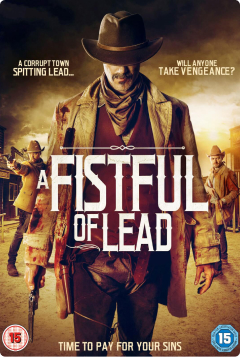
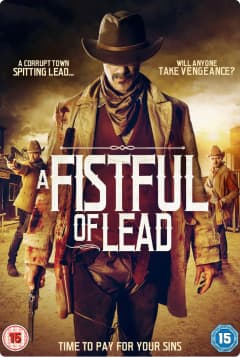
Added adaptive picture

diff --git a/src/sass/_film-modal.scss b/src/sass/_film-modal.scss
@@ -1,11 +1,11 @@
 // Стили для film-modal partial
 
 .card {
+  border: 1px solid #000;
   width: 100%;
   margin: 0 auto;
   position: relative;
   padding: 48px 20px 40px 20px;
-  border: 2px solid red;
 
   @media screen and (min-width: 320px) {
     width: 280px;
@@ -22,26 +22,16 @@
   }
 }
 
-.card__wrapper1 {
-  background-color: cyan;
+.card__image {
+  max-width: 100%;
   margin-bottom: 30px;
+
   @media screen and (min-width: 768px) {
-    margin-bottom: 0;
     margin-right: 30px;
   }
 }
 
-.card__image {
-  max-width: 100%;
-  @media screen and (min-width: 768px) {
-    min-width: 264px;
-  }
-  @media screen and (min-width: 1024px) {
-    min-width: 396px;
-  }
-}
-
-.card__wrapper2 {
+.card__wrapper {
   @media screen and (min-width: 768px) {
     width: 264px;
   }
@@ -49,8 +39,8 @@
     width: 396px;
   }
 }
+
 .card__description {
-  background-color: darkkhaki;
   padding-top: 20px;
   padding-bottom: 20px;
   padding-right: 25px;
@@ -60,6 +50,7 @@
     justify-content: left;
   }
 }
+
 .card__description--1 {
   @media screen and (min-width: 768px) {
     margin-right: 40px;
@@ -68,6 +59,7 @@
     margin-right: 85px;
   }
 }
+
 .card__title {
   font-weight: 500;
   font-size: 20px;
@@ -78,6 +70,7 @@
     line-height: 35px;
   }
 }
+
 .card__label {
   font-weight: 500;
   font-size: 12px;
@@ -85,41 +78,27 @@
   color: #8c8c8c;
   margin-bottom: 10px;
 }
+
 .card__rating {
   margin-bottom: 10px;
   font-weight: 500;
   font-size: 12px;
   line-height: 16px;
 }
+
 .card__rating--orange {
   background-color: #ff6b01;
   color: #fff;
-
   padding: 1px 8px;
   border-radius: 5px;
 }
+
 .card__rating--white {
   background-color: #f7f7f7;
   padding: 1px 4px;
   border-radius: 5px;
 }
-/* .card__rating--num {
-  font-weight: 500;
-  font-size: 12px;
-  line-height: 14px;
-}
-.card__rating--text {
-  font-weight: 500;
-  font-size: 12px;
-  line-height: 16px;
-} */
-/* .card__label--text {
-  color: #000;
-} */
 
-.card__about {
-  background-color: darksalmon;
-}
 .card__subtitle {
   font-weight: 500;
   font-size: 12px;
@@ -127,12 +106,14 @@
   text-transform: uppercase;
   margin-bottom: 10px;
 }
+
 .card__text {
   font-weight: 500;
   font-size: 12px;
   line-height: 1.67;
   padding-bottom: 20px;
 }
+
 .card__buttons {
   padding-top: 20px;
   display: flex;
@@ -142,6 +123,7 @@
     justify-content: left;
   }
 }
+
 .card__btn {
   width: 112px;
   height: 44px;
@@ -171,28 +153,7 @@
     border: hidden;
   }
 }
-/* .card__btn--orange {
-  background-color: #ff6b01;
-  color: #ffffff;
-  border: hidden;
-}
-.card__btn--orange:hover {
-  background-color: rgba(0, 0, 0, 0);
-  color: inherit;
-  border: 1px solid #000000;
-}
-.card__btn--white {
-  background-color: rgba(0, 0, 0, 0);
-}
-.card__btn--white:hover {
-  background-color: #ff6b01;
-  color: #ffffff;
-  border: hidden;
-} */
 
-// .container-modal {
-//   position: relative;
-// }
 .close-button {
   position: absolute;
   top: 8px;
@@ -208,6 +169,7 @@
     stroke: #ff6b01;
   }
 }
+
 .close-cross {
   stroke: black;
 }

diff --git a/src/partials/film-modal.html b/src/partials/film-modal.html
@@ -12,10 +12,23 @@
       <path d="M8 22L22 8" stroke-width="2" />
     </svg>
   </button>
-  <div class="card__wrapper1">
-    <img class="card__image" src="/images/film-modal/mob.jpg" alt="A FISTFUL OF LEAD" />
-  </div>
-  <div class="card__wrapper2">
+  <picture class="card__image">
+    <source
+      srcset="./images/film-modal/desk.jpg 1x, ./images/film-modal/desk@2x.jpg 2x"
+      media="(min-width:1024px)"
+    />
+    <source
+      srcset="./images/film-modal/tablet.jpg 1x, ./images/film-modal/tablet@2x.jpg 2x"
+      media="(min-width:768px)"
+    />
+    <source
+      srcset="./images/film-modal/mob.jpg 1x, ./images/film-modal/mob@2x.jpg 2x"
+      media="(max-width:767px)"
+    />
+    <img src="./images/film-modal/mob.jpg" alt="A FISTFUL OF LEAD" />
+  </picture>
+
+  <div class="card__wrapper">
     <h1 class="card__title">A FISTFUL OF LEAD</h1>
 
     <div class="card__description">
@@ -53,18 +66,3 @@
     </div>
   </div>
 </div>
-<!-- <p class="card__label">
-          Vote / Votes<span class="card__label--num">7.3</span>
-          <span>/</span>
-          <span class="card__label--num">1260</span>
-        </p>
-        <p class="card__label">
-          Popularity <span class="card__label--num">100.2</span>
-        </p>
-        <p class="card__label">
-          Original Title
-          <span class="card__label--text">A FISTFUL OF LEAD</span>
-        </p>
-        <p class="card__label">
-          Genre <span class="card__label--text">Western </span>
-        </p> -->
